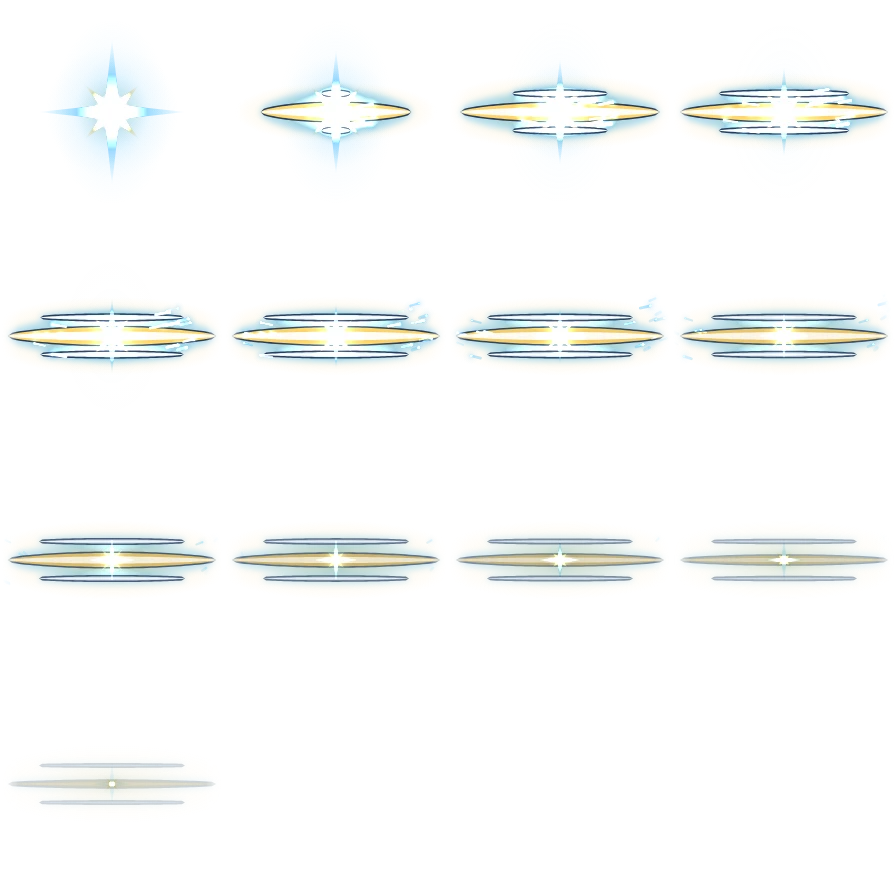
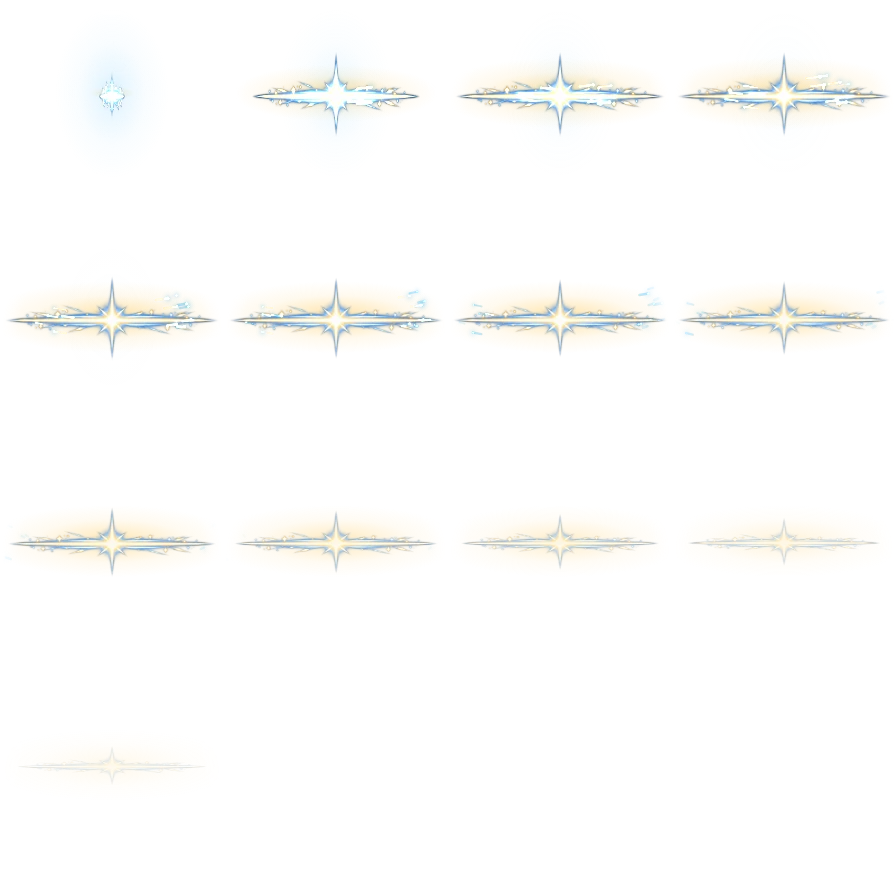
사제 순간 치유를 Codex 섬광 그림으로: 흰 금빛 가로 빛줄기 · 하늘빛 겹줄 · 네 갈래 별 · 반짝이
Lim 2026-10-17 「순간 힐도 디테일을 올려줘」. 모양 (가로 섬광 줄기)은 그대로.
- 섬광 그림 1장을 Codex CLI $imagegen으로 그림 (58 2-7 금지 문장 + 고리 · 초록 금지): scripts/vfx/assets/priest-flash.webp (640px),
  원본 · 프롬프트는 맥 기획 폴더 리소스/generated-ui-20261017-originals/
- priest-flash: 그림이 가운데에서 좌우로 번쩍 펼쳐지고 (첫 장들은 흰빛을 더해 밝게) 위아래로 얇아지며 사라짐, 옆으로 튀는 빛 조각.
  빛줄기는 아이콘과 이름 사이 (y −0.25)로 올려 이름에 줄을 긋지 않음. 지름 90 → 92

diff --git a/src/battle/pxf.ts b/src/battle/pxf.ts
@@ -56,7 +56,7 @@ const wide = (frames: number, impactFrame: number, gray = false): PxfClip =>
 export const PXF = {
   // 직업 스킬: 손그림풍 (scripts/vfx, Lim 2026-10-16 「퀄리티 있게 모두 다시」). 모양은 requests.md 모양 표 그대로
   'priest-heal': skill(22, 80),
-  'priest-flash': skill(14, 90),
+  'priest-flash': skill(14, 92),
   'priest-renew': skill(24, 84),
   'priest-poh': skill(20, 74),
   'priest-purify': skill(18, 86),

diff --git a/scripts/vfx/README.md b/scripts/vfx/README.md
@@ -29,7 +29,7 @@ npx vite build && npm run fx:shot -- warder --sheet .sim/vfx-shots/warder.png --
 - `logical`: 기준 칸 62일 때 그림 지름. 한 명 대상 80–100 (칸 밖까지 빛이 번짐), 범위 · 파티 · 칸마다 기록되는 것 70–84.
 - `scope`: `battle/pxf.ts` `SKILL_PXF`의 재생 칸과 같게 (`target` · `area` · `party`).
 - `draw(g, { t, f, n, px })`: 좌표는 **칸 가운데 (0, 0), 1 = 칸 반지름 (육각 꼭짓점), 위 = −y**. `t` 0–1 진행, `px` = 프레임 1px. 칸 글자는 아이콘 y ≈ −0.4, 이름 ≈ 0.13, 체력 ≈ 0.62라 가운데를 오래 덮지 말 것. 가장자리 14%는 자동으로 둥글게 지워짐.
-- 손그림 그림 쓰기: 도형으로 모자란 디테일 (깃털 날개 등)은 Codex CLI로 그린 그림을 `scripts/vfx/assets/<이름>.webp` (512px 안팎)에 두고 `asset('<이름>')`로 `g.drawImage` (굽기가 읽어 둠, 없으면 null → 도형으로 대신). 원본 · 프롬프트는 `나혼자힐러/리소스/generated-ui-<날짜>-originals/`, `생성기록.csv` · `65`에 적음. 예: 사제 수호 영혼 날개 `guardian-wing`.
+- 손그림 그림 쓰기: 도형으로 모자란 디테일 (깃털 날개 등)은 Codex CLI로 그린 그림을 `scripts/vfx/assets/<이름>.webp` (512px 안팎)에 두고 `asset('<이름>')`로 `g.drawImage` (굽기가 읽어 둠, 없으면 null → 도형으로 대신). 원본 · 프롬프트는 `나혼자힐러/리소스/generated-ui-<날짜>-originals/`, `생성기록.csv` · `65`에 적음. 예: 사제 수호 영혼 날개 `guardian-wing` · 순간 치유 섬광 `priest-flash`.
 - 도구 (`lib.mjs`): `glow` · `glowOval` (빛 번짐) · `glint` (네 갈래 반짝임) · `speck` (빛가루) · `comet` (꼬리 빛) · `lightStroke` (테 → 몸 → 흰 심 획) · `solid` (굵은 어두운 테 물체) · `energy` (빛 덩어리) · `bloom` (흐린 빛) · `leafAt` · `path.*` (별 · 잎 · 꽃잎 · 물방울 · 초승달 · 마름모 · 다각형) · `particles` (시드 고정 입자) · `E` (가속 곡선) · `seg` · `bell`.
 
 ## 게임에 걸기

diff --git a/src/art/pxf/requests.md b/src/art/pxf/requests.md
@@ -53,7 +53,7 @@ Lim 「직업별 스킬별로 이펙트가 달라야 하는데 중복되는 게 
 | 이름 | 모양 | 이름 | 모양 |
 |---|---|---|---|
 | priest-heal (사제 치유) | 초록 반짝이 가루 구름 | druid-sprout | 돋아나는 새싹 |
-| priest-flash | 가로 섬광 줄기 | druid-growth | 터지는 연두 구슬 → 도는 잎사귀 |
+| priest-flash | 가로 섬광 줄기 (Codex 섬광 그림, 네 갈래 별 · 하늘빛 겹줄) | druid-growth | 터지는 연두 구슬 → 도는 잎사귀 |
 | priest-renew | 감아 오르는 이중 나선 | druid-bloom | 피는 분홍 꽃 한 송이 |
 | priest-poh | 퍼지는 금빛 고리 (스킬 중 고리는 이것만) | druid-wildflower | 바닥에 피는 들꽃 줄 |
 | priest-purify | 떨어진 물방울의 왕관 물보라 | druid-cleanse | 휘감는 청록 바람 |
